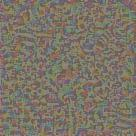
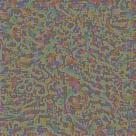
retrieve result

diff --git a/neural_style.py b/neural_style.py
@@ -16,7 +16,7 @@ STYLE_WEIGHT = 1e2
 TV_WEIGHT = 1e2
 LEARNING_RATE = 1e1
 STYLE_SCALE = 1.0
-ITERATIONS = 2
+ITERATIONS = 100
 VGG_PATH = 'imagenet-vgg-verydeep-19.mat'
 
 
